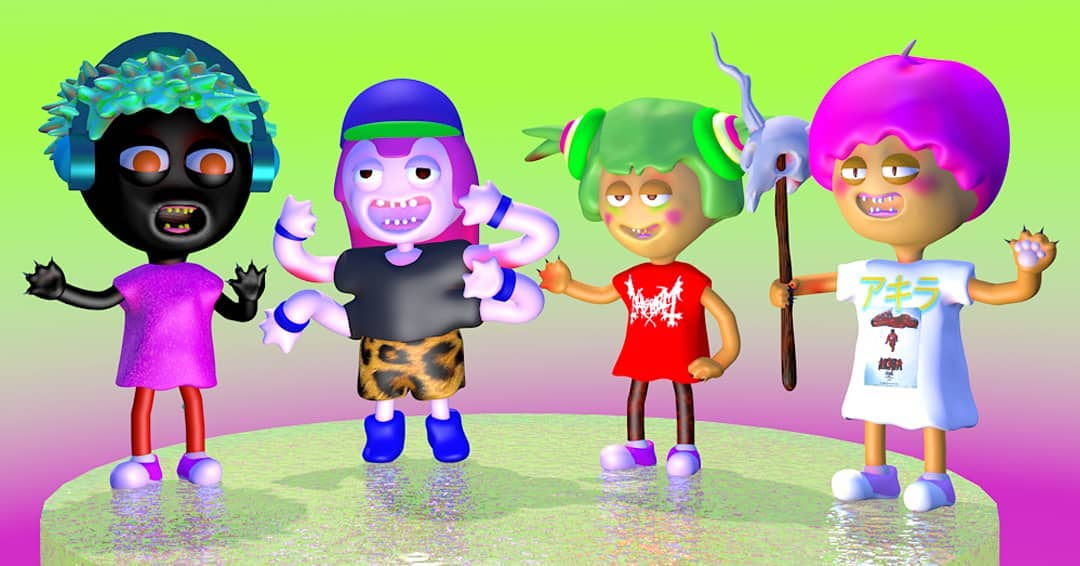
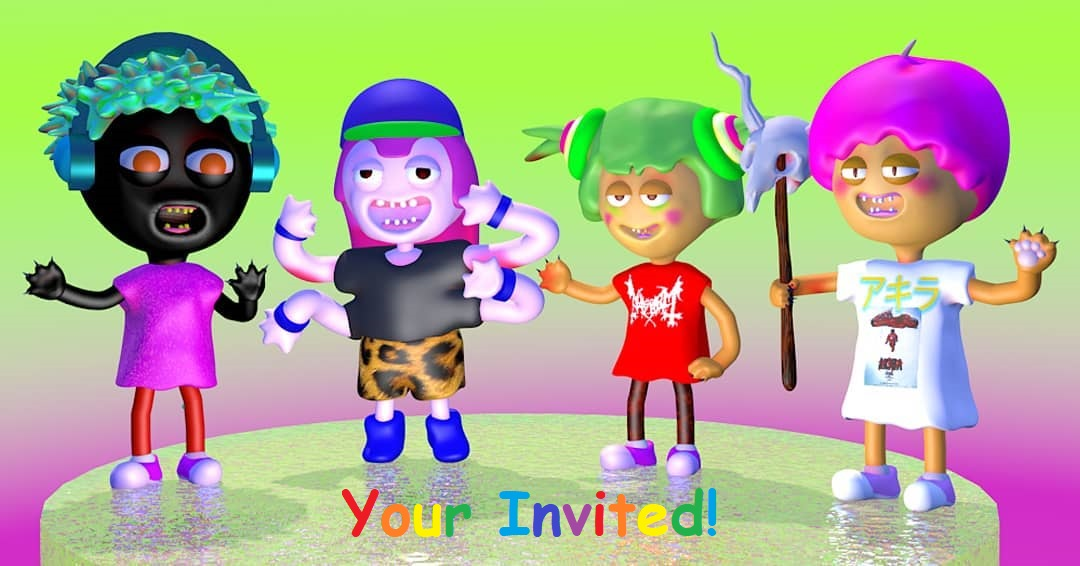
added guest list

Changed region(s): [[0.3056, 0.841, 0.6722, 0.9611]]

diff --git a/index.html b/index.html
@@ -58,12 +58,29 @@
 
     <h2 class="myH2 c-article__title">About</h2>
     <div class="article">
-        <p class="myP">This is the site for Will's 23rd b-day party! The party starts at 7:30pm on April 9th (my birthday). There will be music, drinks and food. Feel free to bring whatever you want to contribute to the party.</p>
+        <p class="myP">This is the site for Will's 23rd b-day party! The party starts at 7:30pm on April 9th (my birthday). There will be music, drinks, food, and ganja. Feel free to bring whatever you want to contribute to the party.</p>
     </div>
 
     <h2 class="myH2 c-article__title">Guests</h2>
     <div class="article">
         <p class="myP">These are all the people that will be at the party. I will be updating it to reflect who has confirmed their invitation</p>
+        <ul>
+            <li><p class="myP">Sam</p></li>
+            <li><p class="myP">Jeff</p></li>
+            <li><p class="myP">Eva</p></li>
+            <li><p class="myP">Cedrik</p></li>
+            <li><p class="myP">Ryan</p></li>
+            <li><p class="myP">Avery</p></li>
+            <li><p class="myP">Acid</p></li>
+            <li><p class="myP">Aries</p></li>
+            <li><p class="myP">Harrison</p></li>
+            <li><p class="myP">Maddy</p></li>
+            <li><p class="myP">Richard</p></li>
+            <li><p class="myP">Alex</p></li>
+            <li><p class="myP">Zack</p></li>
+            <li><p class="myP">Taylor</p></li>
+            <li><p class="myP"></p></li>
+        </ul>
     </div>
 
     <h2 class="myH2 c-article__title">Address</h2>

diff --git a/css/styles.css b/css/styles.css
@@ -5,6 +5,7 @@
   }
 
 body {
+  background-image: url(../images/water2.gif);
 }
 
 .home {
@@ -13,7 +14,7 @@ body {
     top:0;
     left:0;
     width: 100%;
-
+    border-bottom: 10px solid teal;
 }
 
 .content {
